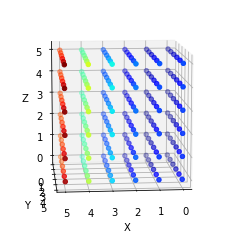
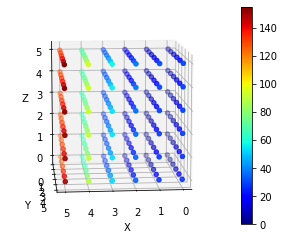
add colorbar at 3d figure

diff --git a/src/interpolation_of_3d_data/script.py b/src/interpolation_of_3d_data/script.py
@@ -79,14 +79,14 @@ def show_data_3D(*args):
     fig = plt.figure()
     ax = fig.add_subplot(111, projection='3d')
     ax.set_box_aspect((1,1,1))
-    vmin = np.min(args[0][3])
-    vmax = np.max(args[0][3])
-    for arg in args:
-        ax.scatter(arg[0], arg[1], arg[2], c=(arg[3]-vmin)/(vmax-vmin), cmap='jet')
+    sc = ax.scatter(args[0][0], args[0][1], args[0][2], c=args[0][3], cmap='jet')
+    for arg in args[1:]:
+        ax.scatter(arg[0], arg[1], arg[2], c=arg[3], cmap='jet')
     ax.view_init(elev=10, azim=85)
     ax.set_xlabel('X')
     ax.set_ylabel('Y')
     ax.set_zlabel('Z')
+    plt.colorbar(sc)
     plt.show()
 
 x = y = z = np.linspace(0, 5, 6)

diff --git a/articles/interpolation_of_3d_data.md b/articles/interpolation_of_3d_data.md
@@ -3,11 +3,11 @@ title: "Pythonで三次元データの補間を行う"
 emoji: "🐥"
 type: "tech" # tech: 技術記事 / idea: アイデア
 topics: ["Python"]
-published: false
+published: true
 ---
 # 1. 概要
 
-「地点 A ($x_a, y_a, z_a$) における気温 $T_a$ と地点 B ($x_b, y_b, z_b$) における気温 $T_b$ から、その間にある地点 C ($x_c, y_c, z_c$) の気温 $T_c$ を推測したい」など、三次元やより高次のデータに対して補間を行いたい場合があります。`Python` で N 次元データの補間を行いたい場合、`SciPy` の `RegularGridInterpolator` を利用することが推奨されているようですが、日本語記事が少なかったためメモとして記事にしてみました。
+「地点 A ($x_a, y_a, z_a$) における気温 $T_a$ と地点 B ($x_b, y_b, z_b$) における気温 $T_b$ から、その間にある地点 C ($x_c, y_c, z_c$) の気温 $T_c$ を推測したい」など、三次元やより高次のデータに対して補間を行いたい場合があります。`Python` で N 次元データの補間を行いたい場合、`SciPy` の `RegularGridInterpolator` を利用するといいですよと教わったのですが、日本語記事が少なかったためメモを残します。
 
 ## 1.1. 環境
 
@@ -25,8 +25,7 @@ https://docs.scipy.org/doc/scipy/reference/generated/scipy.interpolate.RegularGr
 ```Python:definition
 class scipy.interpolate.RegularGridInterpolator(points, values, method='linear', bounds_error=True, fill_value=nan)
 ```
-
-任意次元の構造化データ（グリッドデータ）に対して補間（内挿・外挿）を行うモジュールです。非構造化データの場合は `NearestNDInterpolator` や `LinearNDInterpolator` を用いるようです。
+<br>任意次元の構造化データ（グリッドデータ）に対して補間（内挿・外挿）を行うモジュールです。非構造化データの場合は `NearestNDInterpolator` や `LinearNDInterpolator` を用いるようです。
 
 - パラメータ
   - `points : tuple of ndarray of float, with shapes (m1, ), …, (mn, )`
@@ -52,12 +51,12 @@ class scipy.interpolate.RegularGridInterpolator(points, values, method='linear',
 
 ## 1.3. プログラム
 
-記事で利用しているプログラムです。記事内では描画関数など本筋と関係ないものは省略しています。
+記事で利用しているプログラムです。記事内では本筋と関係ない内容は省略しています。
 https://github.com/Tab-Ki/Zenn/tree/main/src/interpolation_of_3d_data/script.py
 
 # 2. 一次元データの補間
 
-まず一次元のデータに対して補間を試してみます。
+練習がてら一次元のデータに対して補間を試みます。
 
 ## 2.1. 補間の例
 
@@ -85,10 +84,11 @@ show_data_1D(func_1D, (x, data))
 
 青点で示した10個のデータが準備できました。
 
-これらのデータを引数として `RegularGridInterpolator` のオブジェクトを初期化するだけで準備は完了です。補間の実行は初期化したオブジェクトを用いて以下のように行います。
+これらのデータを引数として `RegularGridInterpolator` のオブジェクトを初期化するだけで補間の準備は完了です。実行は初期化したオブジェクトを用いて以下のように行います。
 
 ```Python:script.py
 from scipy.interpolate import RegularGridInterpolator
+# グリッド情報 x はタプル型で与える
 interp = RegularGridInterpolator((x,), data)
 
 x2 = np.array([i + 0.5 for i in range(9)])
@@ -99,11 +99,11 @@ show_data_1D(func_1D, (x, data), (x2, data2))
 ![](/images/interpolation_of_3d_data/2.png)
 *補間されたデータのプロット*
 
-図のオレンジ点は関数 $f(x)=x^2$ の情報を与えていませんが、関数上にプロットされており、適切な値に補間されているのが分かります。
+青点のちょうど中間の $x$ に対する値 $f(x)$ を補間し、オレンジ点でプロットしました。オレンジ点に与えているのは青点の情報のみで、関数 $f(x)=x^2$ の情報は与えていませんが、おおよそ適切な値に補間されているのが確認できます。
 
 ## 2.2. 補間方法の変更
 :::details 補間方法の変更
-`RegularGridInterpolator` の `method` オプションにはデフォルトでは線形補間を意味する `"linear"` が指定されます。先ほどの例では線形補間で問題ありませんでしたが、もう少し複雑な関数、例えば $f(x)=sin(x)$ ではどうでしょうか。
+`RegularGridInterpolator` の `method` オプションにはデフォルトでは線形補間を意味する `"linear"` が指定されます。$f(x)=x^2$ の例では線形補間でも（グラフで見えるレベルでは）問題ありませんでしたが、もう少し複雑な関数、例えば $f(x)=sin(x)$ ではどうでしょうか。
 
 ```Python:script.py
 data = np.sin(x)
@@ -146,7 +146,7 @@ show_data_1D(np.sin, (x, data), (x2, data2))
 ![](/images/interpolation_of_3d_data/7.png)
 *method="quintic"*
 
-各手法に対して、補完した値と正しい値の誤差を比較するために RMSD を計算したところ、以下表のようになりました。$f(x)=sin(x)$ の例では `"quintic"` で補完した値が最も正解との誤差が小さくなりました。
+各手法に対して、補間した値と正しい値の誤差を比較するために RMSD を計算したところ、以下表のようになりました。$f(x)=sin(x)$ の例では `"quintic"` で補間した値が最も正解との誤差が小さくなりました。
 
 |method|RMSD|
 |----|----|
@@ -191,7 +191,7 @@ show_data_3D((xg, yg, zg, data))
 ![](/images/interpolation_of_3d_data/8.png)
 *補間用データの準備*
 
-これに対して、各点の丁度中間に位置する座標における値を補間します。
+これに対して、各点の丁度中間に位置する座標 $x,y,z$ における値 $f(x,y,z)$ を補間します。
 
 ```Python:script.py
 interp = RegularGridInterpolator((x, y, z), data) # method = "linear"
@@ -205,7 +205,7 @@ show_data_3D((xg, yg, zg, data), (xg2, yg2, zg2, data2))
 ![](/images/interpolation_of_3d_data/9.png)
 *補完されたデータのプロット*
 
-補間元のデータと補間したデータの色は綺麗なグラデーションを形成しており、線形補間でもある程度適切に補間できていることが分かります。
+補間元データと補間データの色は綺麗なグラデーションを形成しており、こちらもグラフで見えるレベルではある程度適切に補間できていることが分かります。
 
 ## 3.2. 補間方法の変更
 
@@ -231,7 +231,7 @@ data2 = interp((xg2, yg2, zg2))
 show_data_3D((xg, yg, zg, data), (xg2, yg2, zg2, data2))
 ```
 
-デフォルトの `"linear"` も含めて、各手法で補間した値の正解との誤差 RMSD は以下表のようになりました。今回の関数 $f(x,y,z)=x^3+y^2+z$ は $x$ の増加に対して値が大きく発散するため、それを反映することができない `"nearest"` の誤差が最も大きい結果となりました。`"cubic"`, `"quintic"` はいずれも誤差が殆どありませんでしたが、関数 $f(x,y,z)=x^3+y^2+z$ の影響で3次のスプライン補間である `"cubic"` の誤差が最小となっています。
+<br>デフォルトの `"linear"` も含めて、各手法で補間した値の正解との誤差 RMSD は以下表のようになりました。今回の関数 $f(x,y,z)=x^3+y^2+z$ は $x$ の増加に対して値が大きく発散するため、それを反映することができない `"nearest"` の誤差が最も大きい結果となりました。`"cubic"`, `"quintic"` はいずれも誤差が殆どありませんでしたが、関数 $f(x,y,z)=x^3+y^2+z$ の影響で3次のスプライン補間である `"cubic"` の誤差が最小となっています。
 
 |method|RMSD|
 |----|----|
